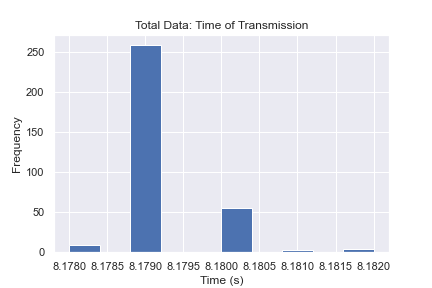
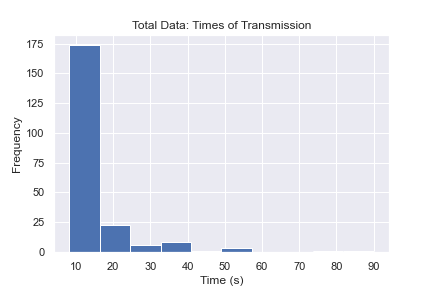
Finished automation of creating final plots

diff --git a/serial_data_handler.py b/serial_data_handler.py
@@ -217,6 +217,8 @@ class Serial_Data_Handler():
         AllFiles = list(os.walk("./" + foldername))  #Walks everything inside current directory
 
         df_list = []
+        delta_t_values = np.array([])
+        error_values = np.array([])
 
         for item in AllFiles:
             #print("item is", item, "\n")    
@@ -227,6 +229,12 @@ class Serial_Data_Handler():
                     path = os.getcwd() + foldername + filename 
                     df = pd.read_csv(path, engine='python', header=0, index_col=False)
                     df_list.append(df)
+
+                elif filename[-3:] == "csv" and "calculated_error" in filename:  
+                    path = os.getcwd() + foldername[1:] + "/" + filename 
+                    df = pd.read_csv(path, engine='python', header=None, index_col=False)
+                    delta_t_values = np.concatenate((delta_t_values, df.values[0][1:]))
+                    error_values = np.concatenate((error_values, df.values[3][1:]))
         
         final_df = pd.concat(df_list)
 
@@ -241,6 +249,23 @@ class Serial_Data_Handler():
         plt.ylim(None, None)
         plt.xlim(50, 155)
         plt.savefig('all_data_noise_plot.png')
+
+
+        NUM_OF_BINS = 10 # Anywhere from 5-20 with 20 being with at least 1000 data points
+        
+        plt.hist(delta_t_values, NUM_OF_BINS)
+        plt.title("Total Data: Times of Transmission")
+        plt.xlabel("Time (s)")
+        plt.ylabel("Frequency")
+        plt.savefig("time_of_flight_total_histogram.png")
+        plt.show()
+
+        plt.hist(error_values, NUM_OF_BINS)
+        plt.title("Total Data: Error")
+        plt.xlabel("Time (s)")
+        plt.ylabel("Frequency")
+        plt.savefig("error_total_histogram.png")
+        plt.show()
 
 
 
